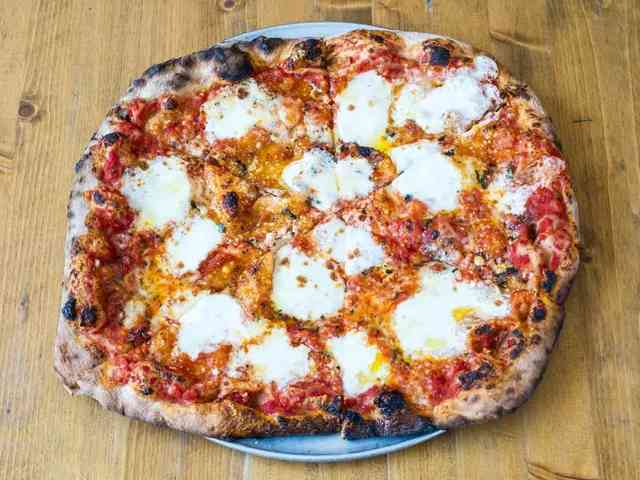
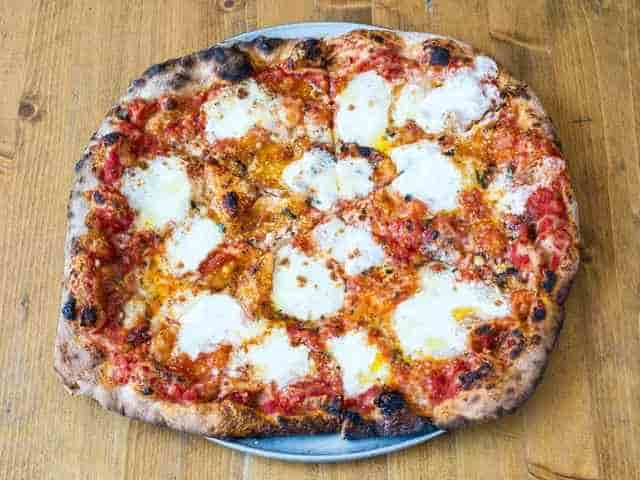
Update: Compressing Images and adding offline message warning

diff --git a/app/css/styles.css b/app/css/styles.css
@@ -1,272 +1,1 @@
-@charset "utf-8";#footer,nav{background-color:#252831;text-align:center}#footer,#restaurant-cuisine,#restaurant-name,#restaurants-list,nav{text-align:center}#footer,#restaurant-cuisine,#restaurant-name,#restaurants-list li h1,nav h1 a{text-transform:uppercase}#breadcrumb li a,a,a:focus,a:hover{text-decoration:none}body,p,td,th{font-family:16px/1.5 Arial,Helvetica,sans-serif;color:#333}h1,h2,h3,h4,h5,h6,li,ul{font-family:Arial,Helvetica,sans-serif}body{background-color:#fdfdfd;margin:0;position:relative}li,ul{color:#333}a{color:#ddd}a:focus,a:hover{color:#3397db}a img{border:0 #fff}h1,h2,h3,h4,h5,h6{margin:0 0 20px}article,aside,canvas,details,figcaption,figure,footer,header,hgroup,menu,nav,section,summery{display:block}.leaflet-container a{color:#00f!important}#maincontent{background-color:#f3f3f3;height:100%;display:flex;flex-direction:column}.inside #maincontent{padding:0 10px}#footer{color:#f3f3f3;font-size:8pt;letter-spacing:1px;padding:25px}nav{width:100%;height:80px;display:flex}nav h1{margin:auto}nav h1 a{color:#ddd;font-size:14pt;font-weight:200;letter-spacing:10px}#breadcrumb{padding:10px 40px 16px;list-style:none;background-color:#eee;font-size:17px;margin:0}#breadcrumb li{display:inline}#breadcrumb li+li:before{padding:8px;color:#000;content:"/\00a0"}#breadcrumb li a{color:#252831}#breadcrumb li a:hover{color:#333;text-decoration:underline;border:none}#maincontent #map-container,#map{height:400px;width:100%;background-color:#ccc}#maincontent-top>#map-container,#maincontent-top>#map-container>#map{height:400px}.inside #map-container{background:#00f;width:100%}@media (min-width:700px){#maincontent-top>#map-container,#maincontent-top>#map-container>#map{height:700px}}.filter-options{display:flex;flex-wrap:wrap;padding:10px;background-color:#252831;flex-direction:column;align-items:center}.filter-options h2{color:#fff;font-size:1rem;font-weight:400;line-height:1;margin:10px}.filter-options select{background-color:#fff;border:1px solid #fff;font-family:Arial,sans-serif;height:35px;letter-spacing:0;margin:10px;padding:0 10px;width:200px}#restaurants-list li,#reviews-list li{border:1px solid rgba(37,40,49,.4588235294117647)}.column{height:100%;display:flex;flex-direction:column;align-items:center}@media (min-width:701px){.filter-options{flex-direction:row}}#restaurants-list{display:flex;flex-wrap:wrap;justify-content:space-around;align-items:center;background-color:#f3f3f3;list-style:none;margin:0;padding:30px 0 60px}#restaurants-list li{background-color:#fff;font-family:Arial,sans-serif;min-height:380px;padding:0;text-align:left;width:300px;margin:15px 0;display:flex;flex-direction:column}#restaurants-list .restaurant-img{background-color:#ccc;display:block;margin:0;width:100%}#restaurants-list li h1{color:#252831;font-family:14pt/1.3 Arial,sans-serif;letter-spacing:0}#restaurants-list p{margin:0;font-size:11pt}#restaurants-list li button{background-color:#252831;color:#fff;border:none;display:inline-block;padding:15px 30px;text-align:center;text-decoration:none;text-transform:uppercase}#restaurants-list li button:hover{color:#ccc;cursor:pointer}#restaurants-list li button,#restaurants-list li h1,#restaurants-list li p{margin:auto 10px}.inside header{width:100%}.inside #map{background-color:#ccc;width:100%}#restaurant-name{color:#252831;font-family:20pt/1.1 Arial,sans-serif;letter-spacing:0;margin:20px 0}#restaurant-img{width:100%}#restaurant-address{margin:0;font-weight:700;border-bottom:1px solid #ccc;padding-bottom:13px;width:100%}#restaurant-cuisine{background-color:#333;color:#ddd;font-weight:300;letter-spacing:10px;margin:0 0 15px;padding:6px 0;width:100%}#restaurant-container,#reviews-container{display:flex;flex-direction:column;align-items:center;border-bottom:1px solid #d9d9d9;border-top:1px solid #fff}#reviews-container h2{color:#252831;font-size:2em;letter-spacing:-1px;padding:15px 0 0}#reviews-list{width: 100%;margin:0;padding:0;display:flex;flex-direction:column;align-items:center}#reviews-list li{background-color:#fff;display:block;list-style-type:none;margin:0 0 30px;overflow:hidden;padding:20px;position:relative;width:85%}#reviews-list li p{margin:0 0 10px}#reviews-list li p:first-of-type{font-weight:700;float:left}#reviews-list li p:nth-of-type(2){float:right;font-weight:700}#reviews-list li p:nth-of-type(3){clear:both;color:8800}#restaurant-hours{align-items:flex-start;width:100%}#restaurant-hours td{color:#333}#restaurant-hours td:first-child{font-weight:700;vertical-align:top}#maincontent-top{display:flex;flex-direction:column}@media (min-width:700px){#maincontent-top{flex-direction:row-reverse}#maincontent{padding:0}#restaurant-container{padding:0 10px}}@media screen and (max-width:768px){#reviews-container h2{width:100%}#restaurants-list li{width:270px}}@media (max-width:700px){#reviews-list li{max-width:100%;width:auto}.filter-options h2{width:100%;text-align:center}}
-
-/* Fav icon Section */
-#restaurants-list .fav-control,
-#restaurant-fav {
-    background-color: rgba(255, 255, 255, 0.5411764705882353);
-    width: 44px;
-    height: 39px;
-    position: absolute;
-    align-self: flex-end;
-    margin-top: 6px;
-    margin-left: -5px;
-    padding: 5px;
-    border: 1px solid #999;
-    border: 0px double transparent;
-    background-image: url(../img/icons/fav.png);
-    background-repeat: no-repeat;
-    background-position: 11px -24px;
-    background-size: 27px;
-    cursor: pointer;
-    text-indent: -10000px;
-    border-radius: 61%;
-}
-#restaurants-list .fav-control.active,
-#restaurant-fav.active  {
-    background-position: 11px -59px;
-}
-#restaurants-list .fav-control:hover,
-#restaurant-fav:hover {
-  background-position: 11px 13px;
-}
-
-#restaurant-img-container {
-  display: flex;
-  flex-direction: column;
-}
-
-
-/* Reviews Section */
-#reviews-header {
-  display: flex;
-  align-items: flex-start;
-  justify-content: space-between;
-  width: 89%;
-}
-#reviews-container .review-add-btn {
-  padding: 0 8px;
-  font-size: 1.6em;
-  cursor: pointer;
-  margin-top: 1vw;
-}
-#reviews-list li p.createdAt {
-  float: right;
-}
-#reviews-list li p.updatedAt {
-  float: right;
-  color: #008800;
-  clear: both;
-}
-#reviews-list li p.rating {
-  float: left;
-}
-#reviews-list li p.comments {
-  clear: both;
-}
-
-
-
-/* ====================== Review Form ====================== */
-#modal {
-  position: fixed;
-  top: 50%;
-  left: 50%;
-  transform: translate(-50%, -50%);
-  z-index: 9999;
-  display: flex;
-  flex-direction: column;
-  border: 1px solid #666;
-  border-radius: 10px;
-  opacity: 0;
-  transition: all .3s;
-  overflow: hidden;
-  background-color: #eee;
-  visibility: hidden;
-  display: flex;
-}
-#modal.show {
-  visibility: visible;  
-  opacity: 1;
-}
-.modal-overlay {
-  width: 100%;
-  height: 100%;
-  z-index: 9990; 
-  background-color: #000;
-  opacity: 0;
-  transition: all .3s;
-  position: fixed;
-  top: 0;
-  left: 0;
-  display: none;
-  margin: 0;
-  padding: 0;
-}
-.modal-overlay.show {
-  display: block;
-  opacity: 0.5;  
-}
-#modal .close-btn {
-  align-self: flex-end;
-  font-size: 1.4em;
-  margin: 8px 8px 0;
-  padding: 0 8px;
-  cursor: pointer;
-}
-form {
-  max-width: 900px;
-  padding: 0 20px 20px 20px;
-}
-input,
-select,
-.rate,
-textarea,
-button {
-  background: #f9f9f9;
-  border: 1px solid #e5e5e5;
-  border-radius: 8px;
-  box-shadow: inset 0 1px 1px #e1e1e1;
-  font-size: 16px;
-  padding: 8px;
-}
-input[type="radio"] {
-  box-shadow: none;
-}
-button {
-  min-width: 48px;
-  min-height: 48px;
-}
-button:hover {
-  border: 1px solid #ccc;
-  background-color: #fff;
-}
-button#review-add-btn, 
-button.close-btn, 
-button#submit_review_btn {
-  min-height: 40px;
-}
-button#submit_review_btn {
-  font-weight: bold;
-  cursor: pointer;
-  padding: 0 16px;
-}
-
-.fieldset {
-  margin-top: 20px;
-}
-.right {
-  align-self: flex-end;
-}
-#review_form_container {
-  width: 100%;
-  /* background-color: #eee; */
-  padding: 0 20px 26px;
-  color: #333;
-  overflow-y: auto;
-}
-#review_form_container h2 {
-  margin: 0 0 0 6px;
-}
-#review_form {
-  display: flex;
-  flex-direction: column;
-  background: #fff;
-  border: 1px solid #e5e5e5;
-  border-radius: 4px;
-}
-#review_form label, #review_form input {
-  display: block;
-  /* width: 100%; */
-}
-#review_form label {
-  font-weight: bold;
-  margin-bottom: 5px;
-}
-
-#review_form .rate label, #review_form .rate input,
-#review_form .rate1 label, #review_form .rate1 input {
-  display: inline-block;
-}
-/* Modified from: https://codepen.io/tammykimkim/pen/yegZRw */
-.rate {
-  height: 36px;
-  display: inline-flex;
-  flex-direction: row-reverse;
-  align-items: flex-start;
-  justify-content: flex-end;
-}
-#review_form .rate > label {
-  margin-bottom: 0;
-  margin-top: -5px;
-  height: 30px;
-}
-.rate:not(:checked) > input {
-  /* position: absolute; */
-  top: -9999px;
-  margin-left: -24px;
-  width: 20px;
-  padding-right: 14px;
-  z-index: -10;
-}
-.rate:not(:checked) > label {
-  float:right;
-  width:1em;
-  overflow:hidden;
-  white-space:nowrap;
-  cursor:pointer;
-  font-size:30px;
-  color:#ccc;
-}
-.rate:not(:checked) > label::before {
-  content: '★ ';
-  position: relative;
-  top: -10px;
-  left: 2px;
-}
-.rate > input:checked ~ label {
-  color: #ffc700;
-}
-.rate > input:checked:focus + label, .rate > input:focus + label {
-  outline: -webkit-focus-ring-color auto 5px;
-}
-.rate:not(:checked) > label:hover,
-.rate:not(:checked) > label:hover ~ label {
-  color: #deb217;
-}
-.rate > input:checked + label:hover,
-.rate > input:checked + label:hover ~ label,
-.rate > input:checked ~ label:hover,
-.rate > input:checked ~ label:hover ~ label,
-.rate > label:hover ~ input:checked ~ label {
-  color: #c59b08;
-}
-#submit-review {
-  align-self: flex-end;
-}
-#offline {
-  position: fixed;
-  align-self: center;
-  justify-self: center;
-  top: -120px;
-  background-color: #f3df84;
-  border-bottom: 1px solid #999;
-  border-left: 1px solid #999;
-  border-right: 1px solid #999;
-  padding: 10px 16px;
-  margin: 0 auto;
-  border-bottom-left-radius: 10px;
-  border-bottom-right-radius: 10px;
-  max-width: 400px;
-  /* transition: visibility .3s ease-in-out, top .3s ease-in-out 1s; */
-  transition: top .3s ease-in-out 1s;
-}
-#offline.show {
-  top: 0;
-}
-#offline h3 {
-  margin: 0 0 6px;
-}
-#offline p {
-  margin: 0 0 10px;
-}
-
+@charset "utf-8";#footer,#restaurant-cuisine,#restaurant-name,#restaurants-list,nav{text-align:center}#maincontent,.column{flex-direction:column}#footer,nav{background-color:#252831}#footer,#restaurant-cuisine,#restaurant-name,#restaurants-list li h1,nav h1 a{text-transform:uppercase}#breadcrumb li a,a,a:focus,a:hover{text-decoration:none}body,p,td,th{font-family:16px/1.5 Arial,Helvetica,sans-serif;color:#333}h1,h2,h3,h4,h5,h6,li,ul{font-family:Arial,Helvetica,sans-serif}body{background-color:#fdfdfd;margin:0;position:relative}li,ul{color:#333}a{color:#ddd}a:focus,a:hover{color:#3397db}a img{border:0 #fff}h1,h2,h3,h4,h5,h6{margin:0 0 20px}article,aside,canvas,details,figcaption,figure,footer,header,hgroup,menu,nav,section,summery{display:block}.leaflet-container a{color:#00f!important}#maincontent{background-color:#f3f3f3;height:100%;display:flex}.inside #maincontent{padding:0 10px}#footer{color:#f3f3f3;font-size:8pt;letter-spacing:1px;padding:25px}nav{width:100%;height:80px;display:flex}nav h1{margin:auto}nav h1 a{color:#ddd;font-size:14pt;font-weight:200;letter-spacing:10px}#breadcrumb{padding:10px 40px 16px;list-style:none;background-color:#eee;font-size:17px;margin:0}#breadcrumb li{display:inline}#breadcrumb li+li:before{padding:8px;color:#000;content:"/\00a0"}#breadcrumb li a{color:#252831}#breadcrumb li a:hover{color:#333;text-decoration:underline;border:none}#maincontent #map-container,#map{height:400px;width:100%;background-color:#ccc}#maincontent-top>#map-container,#maincontent-top>#map-container>#map{height:400px}.inside #map-container{background:#00f;width:100%}@media (min-width:700px){#maincontent-top>#map-container,#maincontent-top>#map-container>#map{height:700px}}.filter-options{display:flex;flex-wrap:wrap;padding:10px;background-color:#252831;flex-direction:column;align-items:center}.filter-options h2{color:#fff;font-size:1rem;font-weight:400;line-height:1;margin:10px}.filter-options select{background-color:#fff;border:1px solid #fff;font-family:Arial,sans-serif;height:35px;letter-spacing:0;margin:10px;padding:0 10px;width:200px}#restaurants-list li,#reviews-list li{border:1px solid rgba(37,40,49,.4588235294117647)}.column{height:100%;display:flex;align-items:center}@media (min-width:701px){.filter-options{flex-direction:row}}#restaurants-list{display:flex;flex-wrap:wrap;justify-content:space-around;align-items:center;background-color:#f3f3f3;list-style:none;margin:0;padding:30px 0 60px}#restaurants-list li{background-color:#fff;font-family:Arial,sans-serif;min-height:380px;padding:0;text-align:left;width:300px;margin:15px 0;display:flex;flex-direction:column}#restaurants-list .restaurant-img{background-color:#ccc;display:block;margin:0;width:100%}#restaurants-list li h1{color:#252831;font-family:14pt/1.3 Arial,sans-serif;letter-spacing:0}#restaurants-list p{margin:0;font-size:11pt}#restaurants-list li button{background-color:#252831;color:#fff;border:none;display:inline-block;padding:15px 30px;text-align:center;text-decoration:none;text-transform:uppercase}#restaurants-list li button:hover{color:#ccc;cursor:pointer}#restaurants-list li button,#restaurants-list li h1,#restaurants-list li p{margin:auto 10px}.inside header{width:100%}.inside #map{background-color:#ccc;width:100%}#restaurant-name{color:#252831;font-family:20pt/1.1 Arial,sans-serif;letter-spacing:0;margin:20px 0}#restaurant-img{width:100%}#restaurant-address{margin:0;font-weight:700;border-bottom:1px solid #ccc;padding-bottom:13px;width:100%}#restaurant-cuisine{background-color:#333;color:#ddd;font-weight:300;letter-spacing:10px;margin:0 0 15px;padding:6px 0;width:100%}#restaurant-container,#reviews-container{display:flex;flex-direction:column;align-items:center;border-bottom:1px solid #d9d9d9;border-top:1px solid #fff}#reviews-container h2{color:#252831;font-size:2em;letter-spacing:-1px;padding:15px 0 0}#reviews-list{width:100%;margin:0;padding:0;display:flex;flex-direction:column;align-items:center}#reviews-list li{background-color:#fff;display:block;list-style-type:none;margin:0 0 30px;overflow:hidden;padding:20px;position:relative;width:85%}#reviews-list li p{margin:0 0 10px}#reviews-list li p:first-of-type{font-weight:700;float:left}#reviews-list li p:nth-of-type(2){float:right;font-weight:700}#reviews-list li p:nth-of-type(3){clear:both;color:8800}#restaurant-hours{align-items:flex-start;width:100%}#maincontent-top,#modal,#restaurant-img-container{flex-direction:column;display:flex}#restaurant-hours td{color:#333}#restaurant-hours td:first-child{font-weight:700;vertical-align:top}@media (min-width:700px){#maincontent-top{flex-direction:row-reverse}#maincontent{padding:0}#restaurant-container{padding:0 10px}}@media screen and (max-width:768px){#reviews-container h2{width:100%}#restaurants-list li{width:270px}}@media (max-width:700px){#reviews-list li{max-width:100%;width:auto}.filter-options h2{width:100%;text-align:center}}#restaurant-fav,#restaurants-list .fav-control{background-color:rgba(255,255,255,.5411764705882353);width:44px;height:39px;position:absolute;align-self:flex-end;margin-top:6px;margin-left:-5px;padding:5px;border:1px solid #999;border:0 double transparent;background-image:url(../img/icons/fav.png);background-repeat:no-repeat;background-position:11px -24px;background-size:27px;cursor:pointer;text-indent:-10000px;border-radius:61%}#modal,.modal-overlay{transition:all .3s;position:fixed}#restaurant-fav.active,#restaurants-list .fav-control.active{background-position:11px -59px}#restaurant-fav:hover,#restaurants-list .fav-control:hover{background-position:11px 13px}#reviews-header{display:flex;align-items:flex-start;justify-content:space-between;width:89%}#reviews-container .review-add-btn{padding:0 8px;font-size:1.6em;cursor:pointer;margin-top:1vw}#reviews-list li p.createdAt{float:right}#reviews-list li p.updatedAt{float:right;color:#080;clear:both}#reviews-list li p.rating{float:left}#reviews-list li p.comments{clear:both}#modal{top:50%;left:50%;transform:translate(-50%,-50%);z-index:9999;border:1px solid #666;border-radius:10px;opacity:0;overflow:hidden;background-color:#eee;visibility:hidden}#modal.show{visibility:visible;opacity:1}.modal-overlay{width:100%;height:100%;z-index:9990;background-color:#000;opacity:0;top:0;left:0;display:none;margin:0;padding:0}.modal-overlay.show{display:block;opacity:.5}#modal .close-btn{align-self:flex-end;font-size:1.4em;margin:8px 8px 0;padding:0 8px;cursor:pointer}form{max-width:900px;padding:0 20px 20px}.rate,button,input,select,textarea{background:#f9f9f9;border:1px solid #e5e5e5;border-radius:8px;box-shadow:inset 0 1px 1px #e1e1e1;font-size:16px;padding:8px}input[type=radio]{box-shadow:none}button{min-width:48px;min-height:48px}button:hover{border:1px solid #ccc;background-color:#fff}button#review-add-btn,button#submit_review_btn,button.close-btn{min-height:40px}button#submit_review_btn{font-weight:700;cursor:pointer;padding:0 16px}.fieldset{margin-top:20px}.right{align-self:flex-end}#review_form_container{width:100%;padding:0 20px 26px;color:#333;overflow-y:auto}#review_form_container h2{margin:0 0 0 6px}#review_form{display:flex;flex-direction:column;background:#fff;border:1px solid #e5e5e5;border-radius:4px}#review_form input,#review_form label{display:block}#review_form label{font-weight:700;margin-bottom:5px}#review_form .rate input,#review_form .rate label,#review_form .rate1 input,#review_form .rate1 label{display:inline-block}.rate{height:36px;display:inline-flex;flex-direction:row-reverse;align-items:flex-start;justify-content:flex-end}#review_form .rate>label{margin-bottom:0;margin-top:-5px;height:30px}.rate:not(:checked)>input{top:-9999px;margin-left:-24px;width:20px;padding-right:14px;z-index:-10}.rate:not(:checked)>label{float:right;width:1em;overflow:hidden;white-space:nowrap;cursor:pointer;font-size:30px;color:#ccc}.rate:not(:checked)>label::before{content:'★ ';position:relative;top:-10px;left:2px}.rate>input:checked~label{color:#ffc700}.rate>input:checked:focus+label,.rate>input:focus+label{outline:-webkit-focus-ring-color auto 5px}.rate:not(:checked)>label:hover,.rate:not(:checked)>label:hover~label{color:#deb217}.rate>input:checked+label:hover,.rate>input:checked+label:hover~label,.rate>input:checked~label:hover,.rate>input:checked~label:hover~label,.rate>label:hover~input:checked~label{color:#c59b08}#submit-review{align-self:flex-end}#offline{position:fixed;align-self:center;justify-self:center;top:-120px;background-color:#f3df84;border-bottom:1px solid #999;border-left:1px solid #999;border-right:1px solid #999;padding:10px 16px;margin:0 auto;border-bottom-left-radius:10px;border-bottom-right-radius:10px;max-width:400px;transition:top .3s ease-in-out 1s}#offline.show{top:0}#offline h3{margin:0 0 6px}#offline p{margin:0 0 10px}

diff --git a/app/js/main.js b/app/js/main.js
@@ -237,6 +237,18 @@ const addMarkersToMap = (restaurants = self.restaurants) => {
   });
 }; 
 
+const showOffline = () => {
+  document.querySelector('#offline').setAttribute('aria-hidden', false);
+  document.querySelector('#offline').setAttribute('aria-live', 'assertive');
+  document.querySelector('#offline').classList.add('show');
+    
+  wait(8000).then(() => {
+    document.querySelector('#offline').setAttribute('aria-hidden', true);
+    document.querySelector('#offline').setAttribute('aria-live', 'off');
+    document.querySelector('#offline').classList.remove('show');
+  });
+};
+
 const favoriteClickHandler = (evt, fav, restaurant) => {
   evt.preventDefault();
   const is_favorite = JSON.parse(restaurant.is_favorite); // set to boolean

diff --git a/app/js/dbhelper.js b/app/js/dbhelper.js
@@ -232,10 +232,10 @@ class DBHelper {
    * Images Srcset.
    */
 	static srcset_large_jpg(restaurant) {
-		return (`img/${restaurant.id}-1600_large_2x.jpg 2x, img/${restaurant.id}-800_large_1x.jpg 1x`);
+		return (`img/${restaurant.id}-800_large_1x.jpg 2x, img/${restaurant.id}-800_large_1x.jpg 1x`);
 	}
 	static srcset_medium_jpg(restaurant) {
-		return (`img/${restaurant.id}-1280_medium_2x.jpg 2x, img/${restaurant.id}-640_medium_1x.jpg 1x`);
+		return (`img/${restaurant.id}-640_medium_1x.jpg 2x, img/${restaurant.id}-640_medium_1x.jpg 1x`);
 	}
 	static srcset_small_jpg(restaurant) {
 		return (`img/${restaurant.id}-640_small_2x.jpg 2x, img/${restaurant.id}-320_small_1x.jpg 1x`);

diff --git a/app/js/restaurant_info.js b/app/js/restaurant_info.js
@@ -477,3 +477,16 @@ const favoriteClickHandler = (evt, fav, restaurant) => {
   }
   fav.classList.toggle('active');
 };
+
+const showOffline = () => {
+  document.querySelector('#offline').setAttribute('aria-hidden', false);
+  document.querySelector('#offline').setAttribute('aria-live', 'assertive');
+  document.querySelector('#offline').classList.add('show');
+    
+  wait(8000).then(() => {
+    document.querySelector('#offline').setAttribute('aria-hidden', true);
+    document.querySelector('#offline').setAttribute('aria-live', 'off');
+    document.querySelector('#offline').classList.remove('show');
+  });
+};
+
